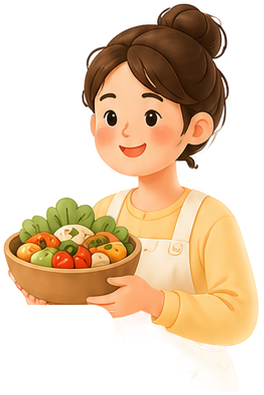
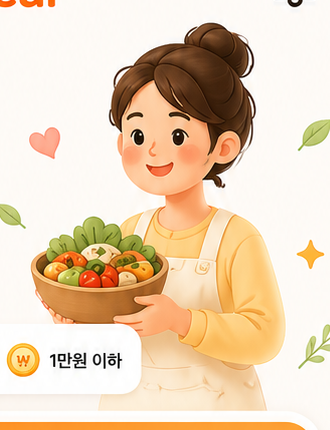
Add files via upload

diff --git a/app/index.html b/app/index.html
@@ -359,7 +359,7 @@ details.fold.sub .body p{font-size:13px!important}
           <h1>오늘 저녁,<br><strong>제가 정해드릴게요</strong></h1>
         </div>
 
-        <img class="hero-woman" src="/hero-woman-v3.png" alt="" width="230" height="250">
+        <img class="hero-woman" src="./assets/hero_woman.png" alt="" width="230" height="250">
       </section>
 
       <div id="urgent-slot"></div>
@@ -444,7 +444,7 @@ details.fold.sub .body p{font-size:13px!important}
           </div>
         </div>
 
-        <img class="piggy" src="/piggy.png" alt="" width="135" height="176">
+        <img class="piggy" src="./assets/piggy.png" alt="" width="135" height="176">
       </section>
 
       <!-- 룰렛 배너 -->
@@ -453,7 +453,7 @@ details.fold.sub .body p{font-size:13px!important}
           <p>오늘은 뭐가 땡기세요?</p>
           <h3>모르겠다면 룰렛을 돌려보세요!</h3>
         </div>
-        <img class="roulette-img" src="/roulette-banner.png" alt="" width="206" height="189">
+        <img class="roulette-img" src="./assets/roulette.png" alt="" width="206" height="189">
         <button class="roulette-arrow" type="button" id="rouletteBtn" aria-label="메뉴 룰렛 돌리기">→</button>
       </section>
     </main>
@@ -520,7 +520,7 @@ details.fold.sub .body p{font-size:13px!important}
 
   <!-- ══ 냉장고 ══ -->
   <section class="view" data-view="fridge">
-    <header class="head"><h1>냉장고 <img class="ico" style="width:26px;height:26px" src="/icons/fridge.png"></h1><p class="muted">담아두면 이 재료부터 쓰는 메뉴를 추천해요</p></header>
+    <header class="head"><h1>냉장고 <img class="ico" style="width:26px;height:26px" src="./assets/ui-kit/icons/fridge.png"></h1><p class="muted">담아두면 이 재료부터 쓰는 메뉴를 추천해요</p></header>
     <div class="section">
       <h2>자주 쓰는 재료 — 눌러서 담기</h2>
       <div class="chips" id="quick-chips" style="flex-wrap:wrap"></div>
@@ -664,9 +664,9 @@ details.fold.sub .body p{font-size:13px!important}
   </div>
 
   <nav class="tabbar">
-    <button class="nav on" data-go="home"><span><img class="ico" src="/icons/home.png"></span>홈</button>
+    <button class="nav on" data-go="home"><span><img class="ico" src="./assets/ui-kit/nav/home.png"></span>홈</button>
     <button class="nav" data-go="explore"><span><img class="ico" src="/icons/search.png"></span>탐색</button>
-    <button class="nav" data-go="fridge"><span><img class="ico" src="/icons/fridge.png"></span>냉장고</button>
+    <button class="nav" data-go="fridge"><span><img class="ico" src="./assets/ui-kit/icons/fridge.png"></span>냉장고</button>
     <button class="nav" data-go="upload"><span><img class="ico" src="/icons/pencil.png"></span>올리기</button>
     <button class="nav" data-go="shop"><span><img class="ico" src="/icons/cart.png"></span>장보기<b id="shop-badge"></b></button>
     <button class="nav" data-go="kitchen"><span><img class="ico" src="/icons/chefhat.png"></span>내 주방</button>
@@ -823,12 +823,12 @@ function heroIdle(){
 
 /* ── 오늘 뭐먹지 룰렛(카테고리 선택) ── */
 const WHEEL2_CATS=[
- {name:"한식",icon:"/icons/rice.png"},
- {name:"면 요리",icon:"/icons/dish_noodle.png"},
- {name:"고기 요리",icon:"/icons/meat.png"},
- {name:"국물 요리",icon:"/icons/dish_stew.png"},
- {name:"가볍게",icon:"/icons/dish_salad.png"},
- {name:"간단식",icon:"/icons/egg.png"},
+ {name:"한식",icon:"./assets/ui-kit/roulette/rice_hansik.png"},
+ {name:"면 요리",icon:"./assets/ui-kit/roulette/noodle.png"},
+ {name:"고기 요리",icon:"./assets/ui-kit/roulette/meat.png"},
+ {name:"국물 요리",icon:"./assets/ui-kit/roulette/soup.png"},
+ {name:"가볍게",icon:"./assets/ui-kit/roulette/light.png"},
+ {name:"간단식",icon:"./assets/ui-kit/roulette/quick_pan.png"},
  {name:"아무거나",icon:null}
 ];
 const WHEEL2_COLORS=['#ffc052','#f6d5bf','#f77468','#9b7dd6','#5bb8d8','#68c883','#b8d96b'];
@@ -926,7 +926,7 @@ function heroResult(){
     (res.urgent?'<p style="background:#fff0e7;color:#d84d18;border-radius:10px;padding:8px 12px;font-size:12.5px;font-weight:700;margin:10px 0 0">⏰ '+esc(res.urgent)+'</p>':'')+
    '</div>'+
    '<div class="meal-image-wrap">'+
-    '<img src="/meal-bowl-v3.png" class="meal-image" alt="'+esc(res.name)+'">'+
+    '<img src="./assets/meal_bowl.png" class="meal-image" alt="'+esc(res.name)+'">'+
    '</div>'+
    '<div class="meal-actions">'+
     '<button class="primary-button" id="eat-btn-main">'+(eaten?'✓ 오늘 이거 먹었어요':'오늘 이거 먹을래! +15P')+'</button>'+
@@ -1180,7 +1180,7 @@ function renderDetail(){
  $('#detail-body').innerHTML=
   '<div class="detail-cover">'+(res.emoji||"🍳")+'</div>'+
   '<h1 class="detail-title">'+res.name+'</h1>'+
-  '<p class="stats"><img class="ico" src="/icons/cat-timer.png"> '+recipe.total_min+'분　·　'+recipe.level+'　·　<img class="ico" src="/icons/forkknife.png"> 2인분</p>'+
+  '<p class="stats"><img class="ico" src="./assets/ui-kit/icons/clock.png"> '+recipe.total_min+'분　·　'+recipe.level+'　·　<img class="ico" src="/icons/forkknife.png"> 2인분</p>'+
   '<h3 style="margin-top:16px">재료</h3>'+
   recipe.ingredients.map(g=>{const have=D.pantry.some(p=>g.name.includes(p.name)||p.name.includes(g.name));
    return '<div class="ingredient">'+(have?'<span class="have">있음</span>':"")+g.name+' <span>'+(g.amt||"")+'</span></div>'}).join("")+
@@ -1824,7 +1824,7 @@ function demoCardHtml(d){
   '<div class="mk-photo" style="background-image:url(\''+d.img+'\')">'+(d.tag?'<span class="mk-foodtag">'+d.tag+'</span>':'')+'</div>'+
   '<div class="mk-foodBody"><div class="mk-foodName">'+esc(d.title)+'</div>'+
   '<div class="mk-foodmeta"><span>'+esc(d.meta)+'</span><span><img class="ico" src="/icons/heart-outline.png"> '+d.like+'</span></div>'+
-  '<div class="mk-by"><img class="ico" src="/icons/person.png"> by '+esc(d.name)+' · 예시</div></div></article>';
+  '<div class="mk-by"><img class="ico" src="./assets/ui-kit/nav/my.png"> by '+esc(d.name)+' · 예시</div></div></article>';
 }
 function renderHomeFeed(){
  const el=$('#home-feed'); if(!el)return;
@@ -1833,7 +1833,7 @@ function renderHomeFeed(){
   '<div class="mk-photo" style="'+(r.image_url?'background-image:url('+esc(r.image_url)+')':'background:#fff0e7;display:flex;align-items:center;justify-content:center;font-size:30px')+'">'+(r.image_url?'':esc(r.emoji||'🍽'))+(i===0?'<span class="mk-foodtag">BEST</span>':'')+'</div>'+
   '<div class="mk-foodBody"><div class="mk-foodName">'+esc(r.title)+'</div>'+
   '<div class="mk-foodmeta"><span>'+(r.kcal?r.kcal+'kcal':'')+'</span><span><img class="ico" src="/icons/heart-outline.png"> '+likeCount(r)+'</span></div>'+
-  '<div class="mk-by"><img class="ico" src="/icons/person.png"> by '+esc(r.profiles?r.profiles.nickname:'맘셰프')+tierBadge(r.user_id)+'</div></div></article>').join('');
+  '<div class="mk-by"><img class="ico" src="./assets/ui-kit/nav/my.png"> by '+esc(r.profiles?r.profiles.nickname:'맘셰프')+tierBadge(r.user_id)+'</div></div></article>').join('');
  if(top.length<4){ html+=DEMO_CARDS.slice(0,4-top.length).map(demoCardHtml).join(''); }
  el.innerHTML=html;
  el.querySelectorAll('[data-goexp]').forEach(c=>c.onclick=()=>go('explore'));

diff --git a/app/README.md b/app/README.md
@@ -1,92 +1,27 @@
-# TodayMeal Home v2
+# TodayMeal 원본 이미지 연결 수정본
 
-`reference.png` 시안을 기준으로 만든 실제 수정 가능한 HTML/CSS/JS 소스입니다.
+기존 files.zip의 index.html 구조와 기능을 유지하면서 이미지 참조를 수정했습니다.
 
-```
-index.html    구조 (아이콘은 전부 인라인 SVG)
-styles.css    반응형 UI
-app.js        추천 메뉴 캐러셀 · 버튼 · 토스트
-assets/       일러스트 4종 (투명 배경 PNG)
-reference.png 기준 시안
-```
+## 적용
+- assets/hero_woman.png: 인사말 캐릭터
+- assets/meal_bowl.png: 추천 메뉴
+- assets/piggy.png: 절약 리포트
+- assets/roulette.png: 룰렛 배너
 
-## 화면을 이미지로 쓰지 않았습니다
+네 파일 모두 todaymeal-home-v2-source.zip의 원본과 바이트 단위로 일치합니다. v3 이미지는 사용하지 않습니다. 이미지 변환, 재생성, 외부 대체, 오류 시 자동 대체를 추가하지 않았습니다. 원본 이미지 자체에 잘린 글자·버튼·배경이 들어 있는 점은 그대로 유지했습니다.
 
-텍스트 · 카드 · 버튼 · 칩 · 하단 내비게이션은 모두 실제 DOM입니다.
-아이콘도 이미지가 아니라 인라인 SVG입니다.
+UI 키트의 냉장고·홈·시계·사람 및 6개 음식 분류 아이콘을 해당 용도에 연결했습니다. assets/ui-kit에는 제공된 이미지 전체를 보관했습니다.
 
-- 로고 셰프햇, 알림 종, 햄버거
-- 필터 칩 4종 (가족 / 시계 / 냉장고 / 동전)
-- 바로가기 4종 (냉장고 / 장바구니 / 책 / 카메라)
-- 추천 카드 메타 아이콘 (시계 / 잎 / 하트), 반짝임
-- 히어로 장식 (하트 / 잎 / 반짝임 / 잔가지)
-- 하단 내비 5종 (홈 / 셰프햇 / 냉장고 / P / 사람)
+## 실행
+기존 서비스의 index.html을 이 파일로 교체하고 같은 위치에 assets 폴더를 복사하세요. /app/index.html에서는 /app/assets/로 연결되며 다른 하위 폴더에서도 네 이미지의 상대 경로가 유지됩니다.
 
-이미지 자산은 **여자, 음식 그릇, 돼지저금통, 룰렛** 4개뿐입니다.
+기존 서버 API /api/menu, /api/nearby, /api/price 및 Supabase 연결은 유지했습니다. 해당 서버 구현은 세 ZIP에 포함되어 있지 않아 전체 서비스의 독립 실행이나 서버 연동은 검증하지 못했습니다. 외부 스크립트·폰트·광고·실제 게시물 이미지도 기존 기능을 위해 유지합니다.
 
-## 좌표 기준
+## 여전히 제공되지 않은 별도 자산
+다음은 홈 시안의 네 이미지와 별개이며, 세 ZIP에서 대응 원본을 찾을 수 없었습니다. 임의의 그림을 배정하지 않고 기존 참조를 유지했습니다. 기존 서버 루트에 파일이 없으면 해당 화면에서 누락될 수 있습니다.
+- /hero-collage.jpg, /mission-pot.png, /icon-192.png
+- /thumb-popular.jpg, /thumb-recent.jpg, /thumb-fridge.jpg, /thumb-demo4.jpg
+- /icons/search.png, /icons/pencil.png, /icons/cart.png, /icons/chefhat.png, /icons/forkknife.png, /icons/heart-outline.png
 
-`reference.png` 는 853 × 1844 이며, 이는 **430 × 932 CSS px 의 정확히 2배**입니다.
-CSS 값은 이 배율(÷2)로 시안에서 역산한 실측값입니다.
-
-| 영역 | top | 높이 |
-|---|---|---|
-| 상단바 | 0 | 66 |
-| 필터 칩 | 206 | 44 |
-| 추천 카드 | 258 | 211 |
-| 바로가기 카드 | 503 | 108 |
-| 절약 리포트 | 621 | 115 |
-| 룰렛 배너 | 749 | 88 |
-| 하단 내비 | 854 | 78 |
-
-좌우 여백은 18px, 카드 폭은 394px입니다.
-
-## 추천 메뉴 캐러셀
-
-`.recommend-card` 를 슬라이드 3장짜리 트랙으로 확장했습니다.
-카드 마크업 자체는 기존 구조(`meal-copy` / `pill` / `meal-meta` / `meal-actions`)를 그대로 유지했습니다.
-
-```
-.recommend
-└ .carousel            overflow-x:auto + scroll-snap-type:x mandatory
-  └ .carousel-track    display:flex
-    └ .carousel-slide  flex:0 0 100%   ×3
-└ .carousel-dots
-```
-
-조작 방법 네 가지를 모두 지원합니다.
-
-- **터치 스와이프** — 브라우저 네이티브 스크롤 스냅
-- **마우스 드래그** — 데스크톱에서 포인터 이벤트로 처리
-- **방향키** — 캐러셀에 포커스한 뒤 ← →
-- **도트 클릭**, **"다른 메뉴 볼래요" 버튼**
-
-슬라이드 위치가 바뀌면 도트가 자동으로 따라오고, `aria-selected` 도 함께 갱신됩니다.
-
-### 구현할 때 주의한 것
-
-세 가지 함정이 있어서 코드에 그대로 남겨뒀습니다.
-
-1. `.carousel` 을 `display:flex` 로 두면 슬라이드의 `flex:0 0 100%` 가 순환 참조되어 카드가 화면 밖으로 삐져나갑니다. `display:block` + 트랙만 flex 로 해야 합니다.
-2. 드래그를 끝낼 때 `scroll-snap` 을 먼저 되살리면 브라우저가 목표 위치를 무시하고 원래 자리로 되돌립니다. 위치를 옮긴 뒤 `requestAnimationFrame` 에서 스냅을 복구합니다.
-3. `pointerdown` 즉시 드래그 모드로 바꾸면 자식의 `pointer-events` 가 꺼져 **단순 클릭의 타깃이 버튼에서 캐러셀로 바뀝니다.** 4px 이상 움직였을 때만 드래그로 전환합니다.
-
-### 메뉴 데이터 교체
-
-슬라이드는 `index.html` 에 정적으로 3장 들어 있습니다(JS 없이도 렌더됩니다).
-메뉴를 바꾸려면 각 `.carousel-slide` 안의 제목 · 메타 · `img[src]` 만 고치면 되고,
-장수를 늘리거나 줄이면 `#mealDots` 의 `.dot` 개수만 맞춰 주면 됩니다.
-
-> 현재 2 · 3번 슬라이드는 사용할 수 있는 음식 사진이 `meal_bowl.png` 하나뿐이라
-> 같은 이미지를 쓰고 있습니다. 사진이 준비되면 `img[src]` 만 교체하세요.
-
-## assets
-
-시안에서 다시 잘라내 **배경을 제거한 투명 PNG** 로 교체했습니다.
-(이전 버전은 배경이 불투명하게 붙어 있어서 로고 조각 · "1만원 이하" 칩 ·
-"다른 메뉴 볼래요" 버튼 텍스트까지 이미지 안에 들어가 있었습니다.)
-
-## 폰트
-
-시안의 서체에 맞춰 Pretendard 를 CDN 으로 불러옵니다.
-오프라인에서는 시스템 한글 서체로 자연스럽게 대체됩니다.
+## 검사 결과
+네 원본 이미지 SHA-256 및 바이트 일치, 새 로컬 이미지 참조의 실제 파일 존재, HTML 내부 JavaScript 3개 문법 검사를 통과했습니다. asset-manifest.json으로 네 원본 파일을 확인할 수 있습니다. 브라우저 화면 및 서버 기능 검증은 수행하지 않았습니다.
